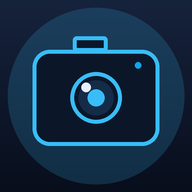
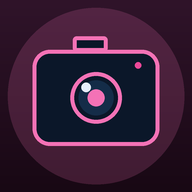
Iconos en rosa y nueva version de cache

diff --git a/sw.js b/sw.js
@@ -1,4 +1,4 @@
-var CACHE_NAME = 'inspeccion-pwa-v1';
+var CACHE_NAME = 'inspeccion-pwa-v2';
 
 var RECURSOS_PRECACHE = [
   './',
